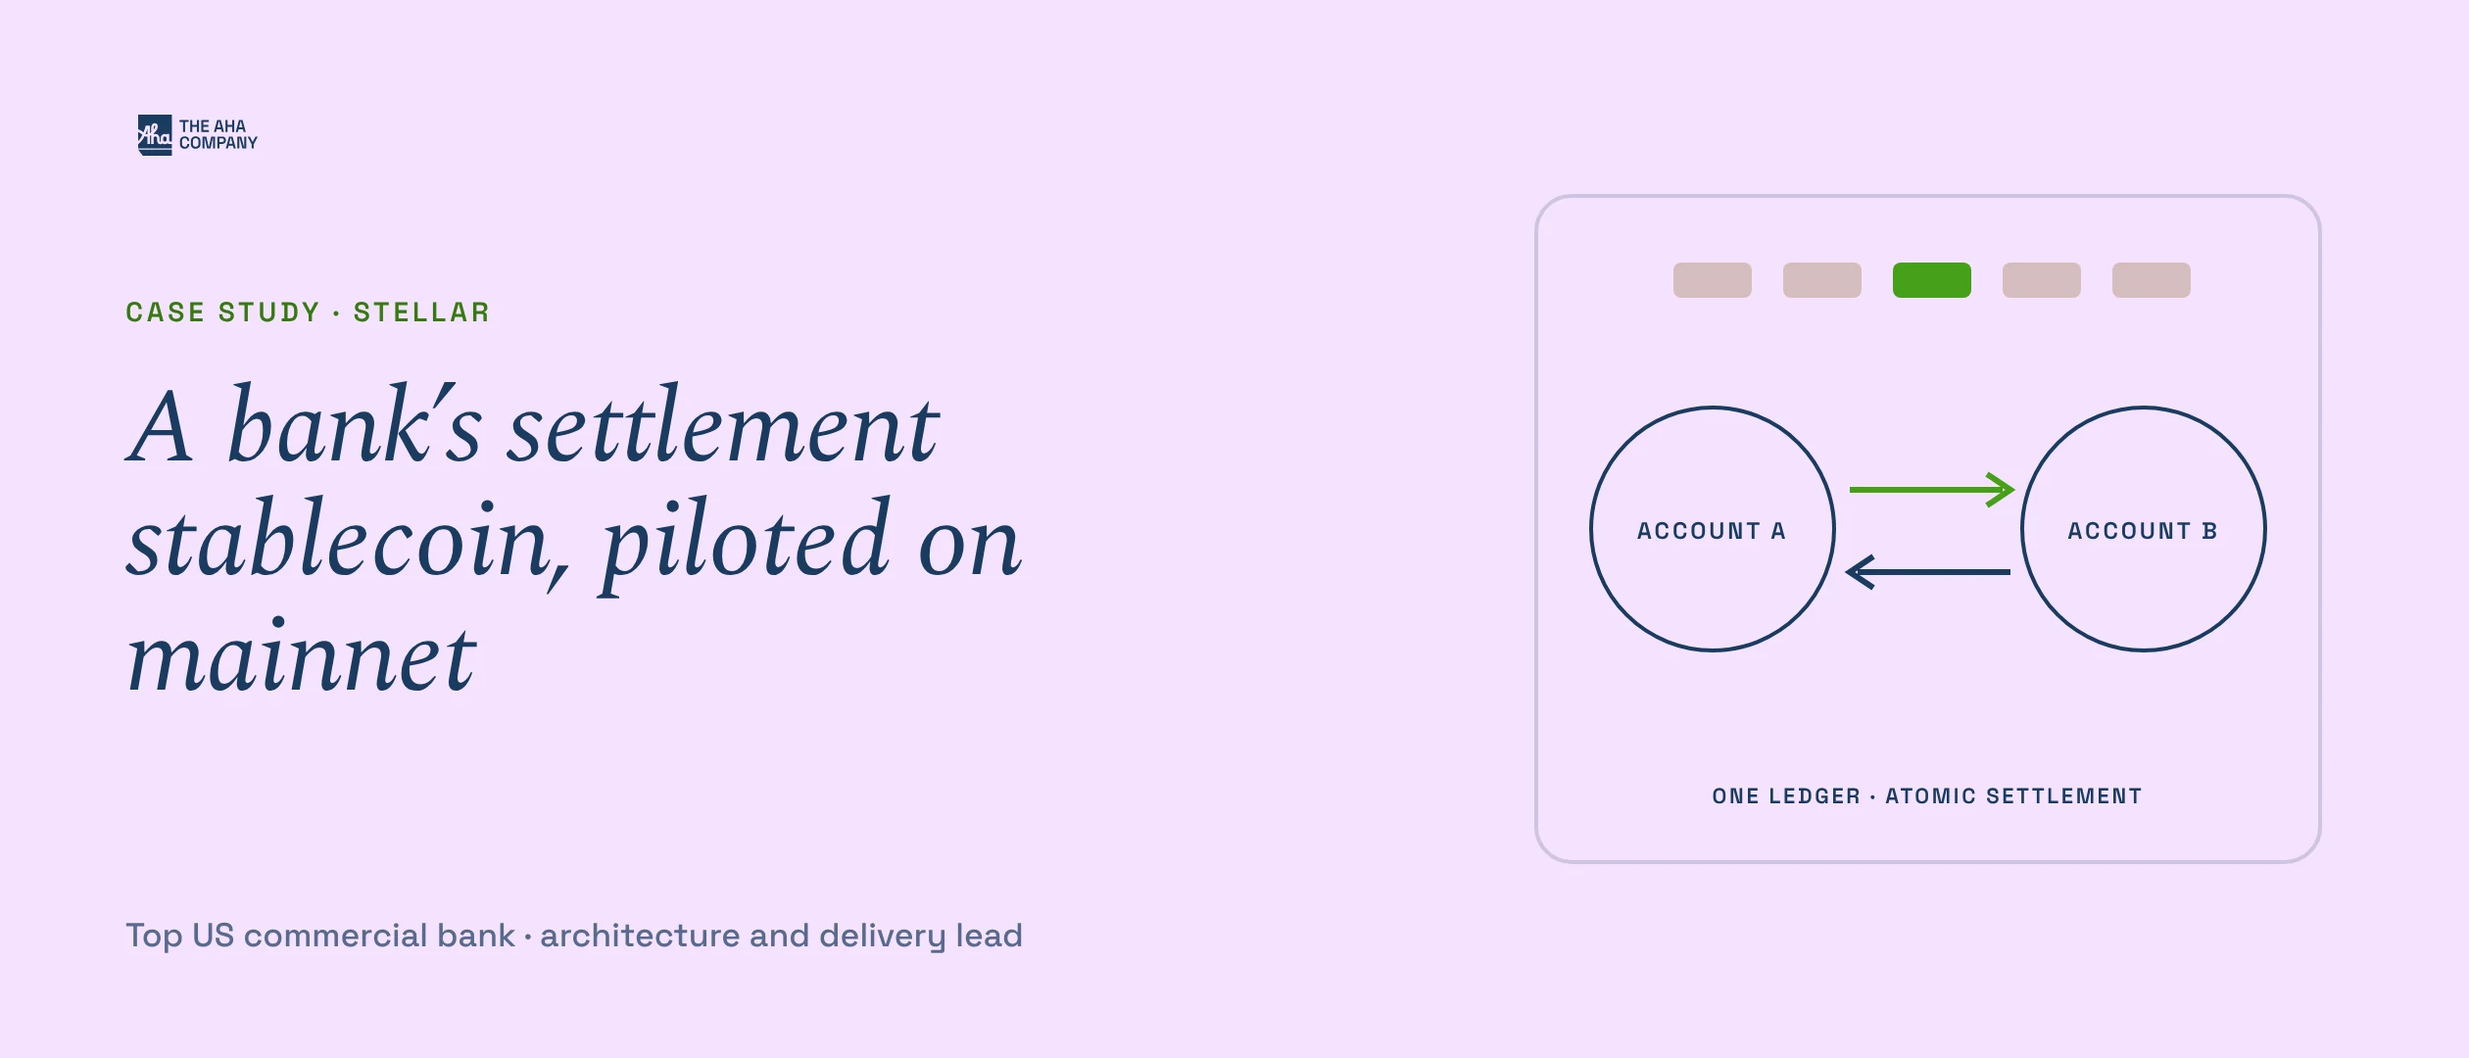
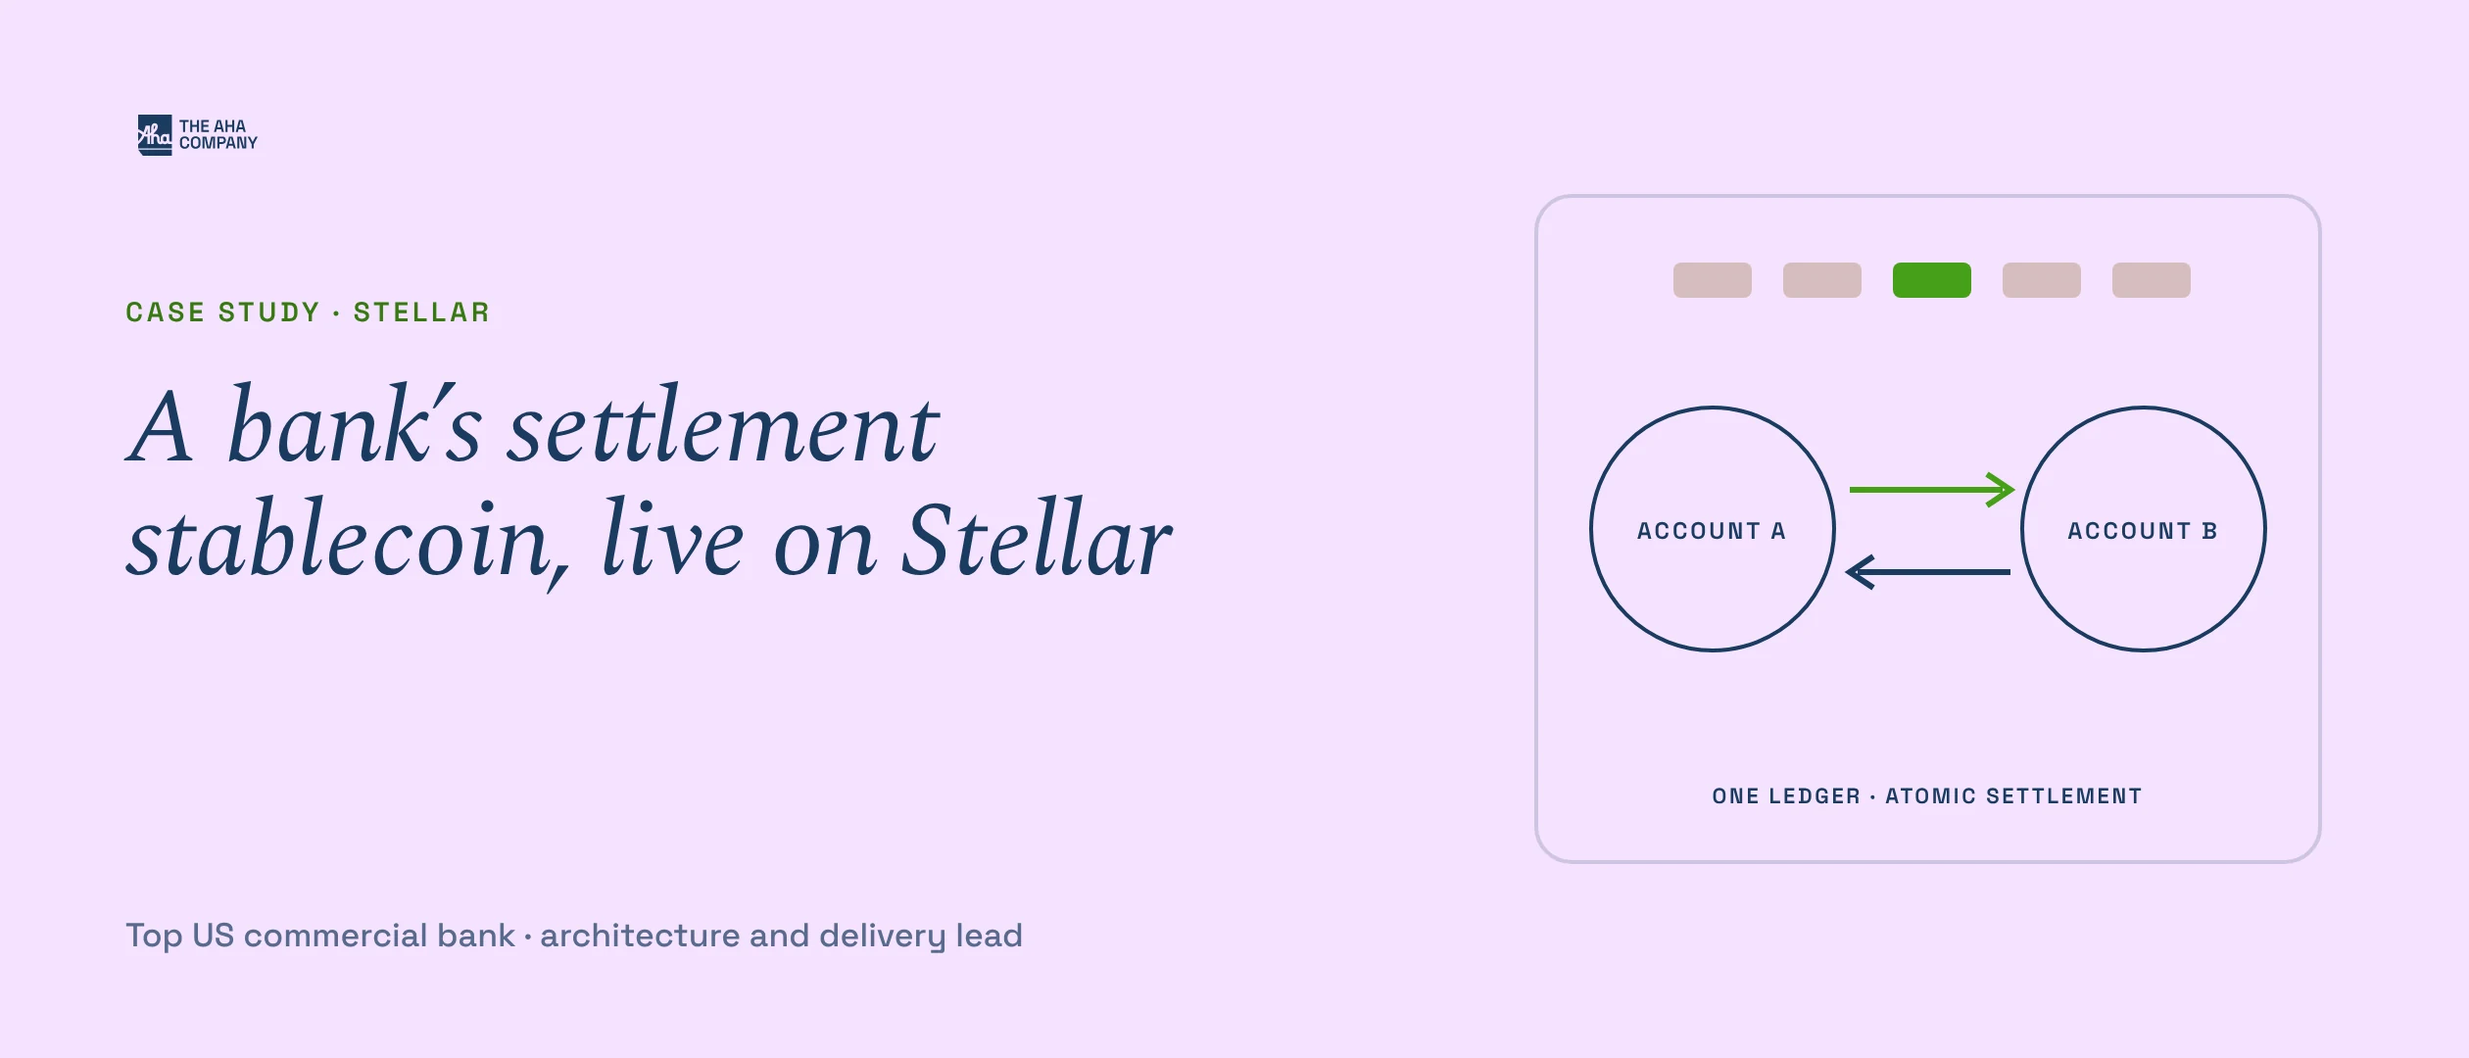
Owner decisions: live bank stablecoin, 137 projects, EURCV compliance model
- Bank settlement stablecoin: live on Stellar mainnet (client still anonymous)
- Home: "137 projects use our open-source tools" on the hero card, in the
  phone figures and on the Open source block
- EURCV case and the Why Stellar article: compliance on Stellar's built-in
  issuer controls, with the Soroban governance layer as the launch stage;
  new header and share images
- About: founded in 2021 as Aha Labs
- Team: Em's page removed from the repository
- Review notes: settled points removed, LinkedIn address to update

Claude-Session: https://claude.ai/code/session_017KYF2hb2chXDABsF4eB264

Changed region(s): [[0.2476, 0.4583, 0.4952, 0.55], [0.031, 0.5806, 0.1857, 0.6722]]

diff --git a/src/data/review.ts b/src/data/review.ts
@@ -26,9 +26,8 @@ export const review: ReviewItem[] = [
   { page: '/', target: '', kind: 'changed', title: 'Search titles and share images (every page)', note: 'Each page has a title under 60 characters, written for what people search (Stellar and Soroban development, tokenized money market fund, Scaffold Stellar...). Case studies, tools and articles share a 1200 × 630 image on LinkedIn and X.' },
   // ------------------------------------------------------------------ home
   { page: '/', target: '#work-cases > .w-dyn-list', kind: 'changed', title: 'Order of the case studies', note: 'The three with a testimonial first (Stellar Development Foundation, LI.FI, Ripple), then Société Générale-FORGE. PwC US is shown as a co-selling alliance, without a link to a case page.' },
+  { page: '/', target: '[data-rv=card-footer], [data-rv=stat-os]', kind: 'new', title: '137 projects', note: '“137 projects use our open-source tools”, on the hero card and in the phone figures, with a link to how it is counted. Also on the Open source block below.' },
   { page: '/', target: '.work_all', kind: 'new', title: 'Link to all the work', note: 'Under the selection, a link to the Work page (case studies, tools and articles).' },
-  { page: '/', target: '[data-rv=stat-deploy]', kind: 'check', title: '“20+ deployments on mainnet”', note: 'No page lists them yet. Confirm the figure, or use one with a public source, such as “137 projects use our open-source tools” (counted on the Open source page).' },
-  { page: '/', target: '[data-rv=card-bank]', kind: 'check', title: 'Bank stablecoin status', note: 'Now “Mainnet pilot”. If it is live beyond the pilot, say so here and on its case study.' },
   { page: '/', target: '.logos_section', kind: 'changed', title: 'Logo band', note: 'Static instead of scrolling: every logo is shown whole, and nothing on the page moves without a way to stop it.' },
   { page: '/', target: '#ways', kind: 'changed', title: 'Ways to work with us', note: 'The architecture-lead model is described with your engineers only. The floating booking button is gone: the call button in the header is on every page.' },
   // ------------------------------------------------------------------ work
@@ -36,18 +35,16 @@ export const review: ReviewItem[] = [
   // ------------------------------------------------------------------ case studies
   { page: '/case-studies/lifi', target: '[data-cs=quote]', kind: 'changed', title: 'Testimonial first', note: 'The quote now opens the page, in place of the header image (that image stays the share image). Same on the Stellar Development Foundation and Ripple pages.' },
   { page: '/case-studies/lifi', target: '.cs_facts', kind: 'new', title: 'Network link', note: 'The network in the facts links to its page, on every case study and tool page.' },
-  { page: '/case-studies/societe-generale-forge', target: '.cs_intro, #solution, #architecture', kind: 'check', title: 'Still the current design?', note: 'The page describes the issuer, compliance and pause roles. Update it when the design on Stellar changes.' },
-  { page: '/case-studies/nda-settlement-stablecoin', target: '.cs_intro, .cs_facts, .cs_outcomes', kind: 'check', title: 'Status and duration', note: 'Now “piloted on Stellar mainnet” and “five months in 2026”. Confirm both can be published as they are.' },
-  { page: '/case-studies/nda-money-market-fund', target: '.cs_intro, .cs_facts', kind: 'check', title: 'Client line', note: 'The client is described as a regulated European asset manager. Confirm the wording and the architecture section can be published.' },
-  { page: '/case-studies/nda-real-estate-debt-fund', target: '.cs_intro, .cs_facts', kind: 'check', title: 'Client line', note: 'Confirm the client accepts a public, anonymous case, and the client line is vague enough.' },
+  { page: '/case-studies/societe-generale-forge', target: '.cs_intro, #solution, #architecture', kind: 'changed', title: 'Compliance on built-in controls', note: 'The page describes EURCV with compliance on Stellar’s built-in issuer controls, the launch governance contracts as the first stage. Same in the “Why Stellar” article.' },
   // ------------------------------------------------------------------ networks, open source
   { page: '/networks/stellar', target: '.nx_heroleft, [data-nx=funding-sec]', kind: 'changed', title: 'Heading and funding', note: 'The heading speaks to issuers and to protocols. Funding is no longer in the introduction; the funding section starts with your own budget.' },
   { page: '/open-source/stellar-registry', target: '[data-tl=metrics]', kind: 'changed', title: 'Headline figure', note: 'Cards and the Work list now show the mainnet calls (166,833), which come from other teams’ contracts. The names count stays on this page, with its definition.' },
-  { page: '/open-source', target: '[data-os=metrics] .cs_metric:first-child, [data-os=count]', kind: 'check', title: 'What the counts include', note: 'The project counts follow the rules shown under “How we count”, which include our team’s own projects. Check you want this in public as it is.' },
   // ------------------------------------------------------------------ contact, faq, about, legal
   { page: '/contact', target: '.calendar_widget', kind: 'changed', title: 'Scheduler', note: 'The scheduler now fills its box (it showed a 150 px strip) and takes the full width on tablets and phones. Calendly shows its own cookie notice.' },
   { page: '/contact', target: '#email-form', kind: 'check', title: 'Contact form', note: 'No form service is connected yet, so the button opens the visitor’s email app and says so. Create a Formspree form for hello@theaha.co and paste its address in src/data/site.ts (formEndpoint): the form then sends directly.' },
   { page: '/faq', target: '[data-rv=faq-audits]', kind: 'new', title: 'New question: audits', note: 'Who audited what, as each case study and tool page already says (Hacken, Halborn, Veridise, Runtime Verification).' },
+  { page: '/about', target: '[data-rv=about-lede]', kind: 'changed', title: 'Former name', note: '“Founded in 2021, as Aha Labs”, so people who know the old name find us. Search engines also get it as a former name.' },
+  { page: '/', target: 'footer a[href*="linkedin.com/company"]', kind: 'check', title: 'Company LinkedIn (every page)', note: 'Once the company page has its new address, put it in src/data/site.ts (contact.linkedin).' },
   { page: '/about', target: '[data-ab=team]', kind: 'check', title: 'Team pages', note: 'Confirm each person is happy with their page and credits. Three photos are small (Elizabeth, Pamphile, Zach): send larger ones if you have them.' },
   { page: '/privacy', target: '[data-rv=privacy-third]', kind: 'changed', title: 'Scheduler and form', note: 'Says that the Contact page loads Calendly when it opens. Formspree is named once the form uses it.' },
   // ------------------------------------------------------------------ articles

diff --git a/src/styles/site.css b/src/styles/site.css
@@ -210,3 +210,6 @@ a.work_case-link[href]:hover .work_h3{color:#367A12}
 .h1_eyebrow{display:block;font-style:normal;line-height:1.5;margin-bottom:28px}
 /* "More" rows: a long figure wraps instead of widening the page on phones */
 @media (max-width:767px){.more_meta{white-space:normal}}
+/* Home hero card: the open-source figure links to its counting page */
+.hero_card-footlink{color:inherit;text-decoration:underline;text-decoration-color:var(--line-strong);text-underline-offset:3px}
+.hero_card-footlink:hover{color:var(--green-ink)}

diff --git a/src/content/case-studies/societe-generale-forge.md b/src/content/case-studies/societe-generale-forge.md
@@ -3,7 +3,7 @@ title: Société Générale-FORGE
 metaTitle: 'EURCV on Stellar: SG-FORGE euro stablecoin case study'
 order: 4
 eyebrow: Financial institution · Stellar
-lede: EURCV, Société Générale-FORGE's regulated euro stablecoin, live on Stellar mainnet since Q1 2026. We built the issuance and governance contracts on Soroban, with compliance controls agreed with the FORGE compliance team.
+lede: EURCV, Société Générale-FORGE's regulated euro stablecoin, live on Stellar mainnet since Q1 2026. We built its issuance and governance on Stellar, and guided its move to compliance on the network's built-in controls.
 cta: Issuing a regulated stablecoin? Talk to the engineers who took one to mainnet.
 facts:
 - label: Client
@@ -26,8 +26,8 @@ facts:
   style: plain
 hero:
   image: /images/cases/societe-generale-forge.webp
-  alt: 'A regulated euro stablecoin, live on Stellar: issuer, compliance and pause roles around the EURCV token'
-  caption: Issuer, compliance and pause authorities as distinct onchain roles around one mainnet contract.
+  alt: 'A regulated euro stablecoin, live on Stellar: the issuer, compliance and holders around the EURCV token'
+  caption: One native Stellar asset, with its controls in the hands of the issuer and its compliance team.
 metrics:
 - figure: €20M+
   label: Regulated stablecoin issued onchain
@@ -35,34 +35,35 @@ metrics:
 - figure: Live
   label: On Stellar mainnet since Q1 2026
   receipt: https://stellar.expert/explorer/public/asset/EURCV-GCEYGIVOLAVBF2TG2RUSGTUJCIN75KEX3NGLMY4VPL4GFE5L355AXW3G
-- figure: '3'
-  label: 'Distinct onchain roles: issuer, compliance, pause'
+- figure: Audited
+  label: By Hacken, before mainnet
   receipt: ''
 sections:
 - id: challenge
   title: Challenge
-  body: A regulated bank needed a euro stablecoin that satisfied institutional compliance, denylist controls, pausability, and auditable issuance, while living on a public network where anyone can read the ledger. The contracts had to be production-grade from day one, with no room for the experimental patterns common in DeFi.
+  body: A regulated bank needed a euro stablecoin with institutional compliance controls and auditable issuance, on a public network where anyone can read the ledger. The design had to be production-grade from day one, and able to evolve as compliance requirements and the ecosystem moved, without reissuing the asset.
 - id: solution
   title: Solution
   body: |-
-    We designed and built the Soroban contracts that mint, govern, and control EURCV, with role-separated administration, a denylist interface for compliance, and pause controls for incident response. Every privileged action is explicit and auditable, and the issuance flow maps cleanly onto the bank’s existing controls.
+    We designed EURCV’s issuance on Stellar and built its launch governance on Soroban: issuer, compliance and pause authorities as separate roles, a denylist and pausable transfers, audited by Hacken before mainnet. Compliance controls were agreed with the FORGE compliance team before the first line of contract code.
 
-    Compliance controls were agreed with the FORGE compliance team before the first line of contract code.
+    We then guided FORGE’s move to reactive compliance on Stellar’s built-in issuer controls: no contract screens transfers in advance, and the compliance team freezes an address when it is flagged. EURCV stayed the same native Stellar asset throughout.
 - id: architecture
   title: Architecture highlights
   body: |-
-    - Role-separated admin: issuer, compliance and pause authorities are distinct onchain roles
-    - Denylist interface so flagged accounts can be blocked from transfers in line with regulation
-    - Pausable transfers for incident response without touching balances
-    - Audited by Hacken before mainnet deployment
+    - A native Stellar asset, reached by Soroban contracts through the Stellar Asset Contract
+    - Compliance on the protocol’s issuer controls: a flagged address is frozen, with no contract in the transfer path
+    - Launch governance on Soroban (issuer, compliance and pause roles, denylist), audited by Hacken before mainnet
+    - Every privileged action explicit and visible on the public ledger
 - id: outcome
   title: Outcome
-  body: 'EURCV is live on Stellar mainnet with €20M+ issued onchain: regulated stablecoin, not TVL. The FORGE compliance team operates freeze and denylist controls.'
+  body: 'EURCV is live on Stellar mainnet with €20M+ issued onchain: regulated stablecoin, not TVL. Its compliance runs on Stellar’s built-in controls, operated by the FORGE compliance team.'
 tech:
 - Soroban
 - Rust
 - Stellar
 - SEP-41
+- Stellar Asset Contract
 receipts: |-
   - [EURCV on the Stellar explorer](https://stellar.expert/explorer/public/asset/EURCV-GCEYGIVOLAVBF2TG2RUSGTUJCIN75KEX3NGLMY4VPL4GFE5L355AXW3G)
 relatedService: Stablecoin issuance and governance
@@ -76,15 +77,15 @@ quote:
   portrait: ''
   portraitAlt: ''
   logo: /images/logos/logo-light-sgforge.svg
-  logoAlt: Société Générale FORGE
+  logoAlt: Société Générale-FORGE
 ndaSummary: ''
 client: Société Générale-FORGE
 nda: false
 workTitle: EURCV, a regulated euro stablecoin on Stellar mainnet
-workLine: Issuance and governance contracts on Soroban, compliance controls agreed with the FORGE compliance team.
+workLine: Issuance and governance on Stellar, compliance controls agreed with the FORGE compliance team.
 audience: Institutions
 network: Stellar
 year: 2025-2026
 shortTitle: Société Générale-FORGE
-description: 'EURCV, Société Générale-FORGE’s regulated euro stablecoin, live on Stellar since Q1 2026: we built its issuance and governance contracts on Soroban.'
+description: 'EURCV, Société Générale-FORGE’s regulated euro stablecoin, live on Stellar since Q1 2026: we built its issuance and governance, audited by Hacken.'
 ---

diff --git a/src/content/case-studies/nda-settlement-stablecoin.md b/src/content/case-studies/nda-settlement-stablecoin.md
@@ -1,9 +1,9 @@
 ---
 title: Internal settlement stablecoin on Stellar
-metaTitle: 'Settlement stablecoin pilot for a top US commercial bank'
+metaTitle: 'Settlement stablecoin for a top US commercial bank'
 order: 5
 eyebrow: Financial institution · Stellar
-lede: An internal settlement stablecoin for a top US commercial bank, piloted on Stellar mainnet. We led the architecture and the delivery, embedded with the bank's engineers for five months in 2026.
+lede: An internal settlement stablecoin for a top US commercial bank, live on Stellar mainnet. We led the architecture and the delivery, embedded with the bank's engineers for five months in 2026.
 cta: Issuing a stablecoin inside a bank? Talk to the engineers who architected one.
 facts:
 - label: Client
@@ -16,7 +16,7 @@ facts:
   value: Stellar
   style: net
 - label: Status
-  value: Mainnet pilot
+  value: Live
   style: net
   live: true
 - label: Year
@@ -27,11 +27,11 @@ facts:
   style: plain
 hero:
   image: /images/cases/nda-settlement-stablecoin.webp
-  alt: 'A bank’s settlement stablecoin, piloted on mainnet: two accounts settling atomically on one ledger'
+  alt: 'A bank’s settlement stablecoin, live on Stellar: two accounts settling atomically on one ledger'
   caption: ''
 metrics:
-- figure: Mainnet pilot
-  label: On Stellar from Q3 2026
+- figure: Live
+  label: On Stellar mainnet since Q3 2026
   receipt: ''
 - figure: 5 months
   label: From kickoff to handover, in 2026
@@ -55,7 +55,7 @@ sections:
     - Controls designed to the bank's compliance and custody requirements
 - id: outcome
   title: Outcome
-  body: The stablecoin is piloted on Stellar mainnet, issued and operated by the bank.
+  body: The stablecoin is live on Stellar mainnet, issued and operated by the bank.
 tech:
 - Stellar
 - Stablecoin
@@ -83,5 +83,5 @@ audience: Institutions
 network: Stellar
 year: '2026'
 shortTitle: Internal settlement stablecoin on Stellar
-description: 'A settlement stablecoin pilot on Stellar mainnet for a top US commercial bank: we led the architecture and the delivery, embedded for five months.'
+description: 'An internal settlement stablecoin for a top US commercial bank, live on Stellar mainnet: we led the architecture and the delivery, embedded for five months.'
 ---

diff --git a/src/content/blog/why-stellar-is-the-right-chain-for-tokenization.md b/src/content/blog/why-stellar-is-the-right-chain-for-tokenization.md
@@ -23,7 +23,7 @@ On Stellar, a token issued with the network's built-in functions carries issuer 
 
 ## Smart contracts where the rules need them
 
-Since Soroban, every Stellar asset also has a smart-contract interface, the Stellar Asset Contract, so an issuer can add rules the built-in controls cannot express. For EURCV, Société Générale-FORGE's regulated euro stablecoin, we built the Soroban contracts that govern it, with controls agreed with the FORGE compliance team. EURCV stays a native Stellar asset.
+Since Soroban, every Stellar asset also has a smart-contract interface, the Stellar Asset Contract, so an issuer can add rules the built-in controls cannot express, and take them off later without reissuing the asset. EURCV, Société Générale-FORGE's regulated euro stablecoin, launched with a governance layer we built on Soroban, with controls agreed with the FORGE compliance team. Its compliance now runs on the built-in controls, applied when an address is flagged, and it is still the same native Stellar asset.
 
 ## Institutions are already there
 

diff --git a/src/content/networks/stellar.md b/src/content/networks/stellar.md
@@ -48,7 +48,7 @@ ship:
     description: Onchain governance the Stellar Community Fund votes on
     badge: Mainnet
     href: /open-source/tansu
-  - name: EURCV contracts
+  - name: EURCV
     description: Issuance and governance for SG-FORGE
     badge: Live on mainnet
     href: /case-studies/societe-generale-forge
